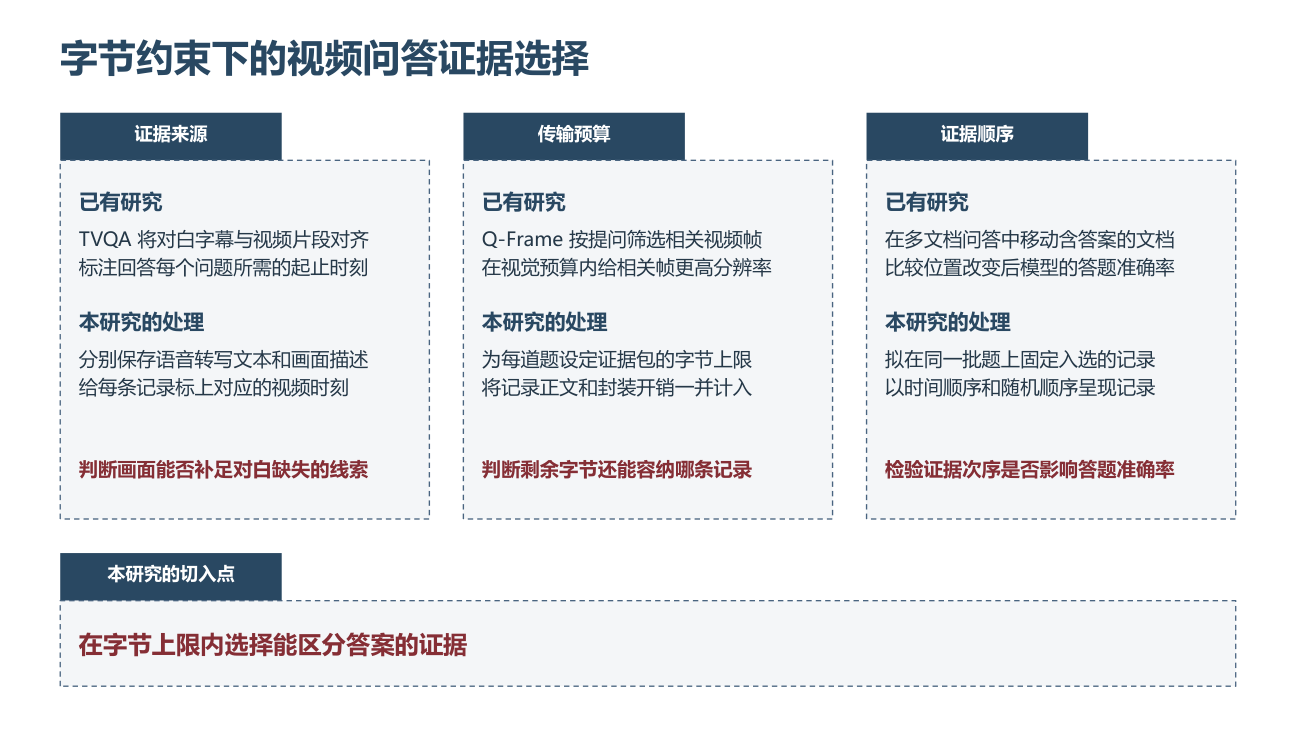
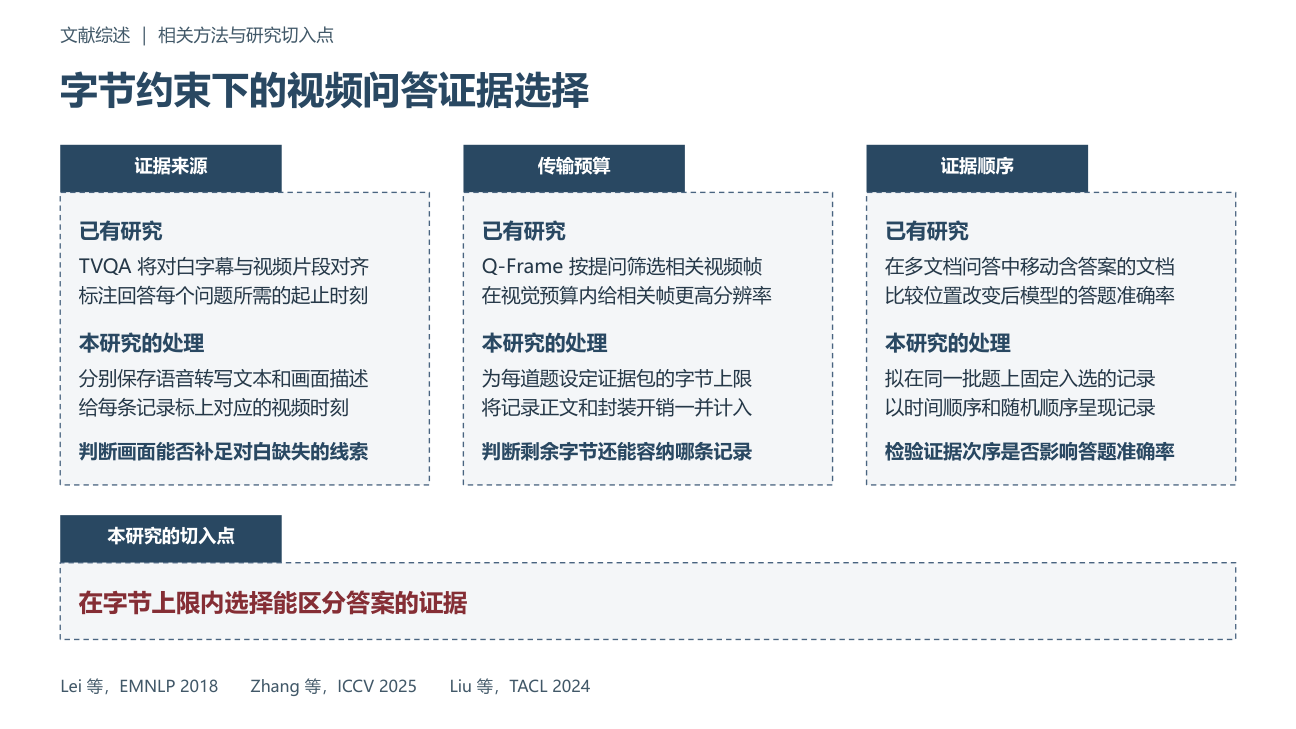
Require six academic slide standards and a page-by-page delivery review

diff --git a/references/工科答辩WPS版式.md b/references/工科答辩WPS版式.md
@@ -1,8 +1,22 @@
-# 国内高校工科答辩 WPS 版式
+# 去 AI 模板感与“真人手搓”工科学术规范（硬性约束）
 
-## 整套答辩
+以下六项是制作和修改学术答辩、组会汇报、项目评审 PPT 的硬性约束，均适用于最终上屏稿。讲稿、备注和原文核查记录可保留精确的原文定位。
 
-编排时按每页要讲的内容选择主体布局。下表也用于交付前的幻灯片浏览视图核对。
+## 1. 章节眉题与页内编号
+
+- 有眉题的页面全篇采用同一体例。默认写成“一级章名 ｜ 本页独立中文主题”，右侧用 6–12 字的完整主题短语，例如“研究内容 ｜ 条件增益的估计方法”。不挂二级及以下阿拉伯数字编号。“文献综述 ｜ 2.1–2.3”不能说明这页讲什么。
+- 确需保留二级编号时，每页至多一个，仍须配完整主题。按全篇页序比较章、节数值，严格递增，不回退、不堆叠。禁止在一行并排多个二级、三级节号、数字区间或括号编号。写全“研究可行性分析”“统计检验”等术语，放不下时重写整条眉题。
+- 正文的并列项用无序号加粗短语，或从 1 开始在本页编号。源文档的“2.7 / 2.8 / 2.9”留在原文映射记录。
+
+## 2. 可见底注与文献引证
+
+- 正片和附录的可见文字均禁用节号符 `§`、自引报告节号、内部文件名及对账签。把“见开题报告 §3.3”或“见补充材料 PDF 第 59 页”的定位移到备注或核查记录。
+- 本页没有对应文献列表时，正文和底注禁用孤立数字引文，如“HERBench [46]”。直接写可识别的作者或数据集，加年份或会议，例如“Liu 等，TACL 2024”。附录参考文献序号写成 `[1]` 至 `[9]`，继续顺排到 `[10]`；范围写作 `[1]–[9]`，不得补零为 `[01]`。
+- 左下角只写有依据的数据集、样本量、统计口径、政策或文献出处。没有补充信息就留空。生成器直接使用本页底注字段，禁止以 `note or default_title` 等逻辑回填报告名称。
+
+## 3. 内容决定版式和容器高度
+
+按下表选择主体布局。每相邻两页核查一次卡片的外框位置，再以连续三页为一组滑动检查。禁止相邻卡片坐标完全相同、仅替换文字，也禁止三页连续使用同一种主体布局，包括连续重复“白底细横线加悬空文字”。换主题色、卡片数量或略微移动外框不能代替换一种合适的表达方式。
 
 | 本页要讲的内容 | 主体布局 |
 | --- | --- |
@@ -12,11 +26,26 @@
 | 受控实验各组相差多少 | 有效应量和区间时用森林图，比较各组数值时可用柱状图，标明单位 |
 | 少量方法、条件或数值需逐行查对 | 三行简洁横线表，列头写清比较口径 |
 
-- **相邻页。** 逐一检查第 1–3、2–4 页等连续三页。任一组三页的主体容器都不能完全相同。换文字、主题色、配图或卡片数量但保留同一种卡片网格，仍算同一布局。根据论证需要调整其中一页。
-- **边框。** 已确定的系统模块、物理协议、原始公报截图用细实线框。方法归类与对比、假设推演、待验证的消融维度、问题切入点用 1 pt 细虚线框配浅底色。采用平涂，禁用浮夸渐变、发光阴影、Emoji 和路演式超大数字卡片。
-- **标题。** 默认用工科学术短语或有证据支持的实证结论。标题出现“？”或“?”的页面合计最多三页，只可用于开篇引题、核心问题、结尾呼应，各最多一页。
-- **文字。** 每行只表达一个动作、条件或观察，沿词组和语义自然断行。去掉排比口号、自造四字词和悬浮长文。计划用“拟比较”“拟测量”等动词，实测结论注明条件。
-- **底注。** 仅保留客观的数据集、样本量、政策或文献出处。正片和底注都不放“此处仅为示意”“具体结构待预实验确定”“机器排队另建台账”等制作说明。影响结论的真实限制写进相应方法或结果句。
+- 核心算法或建模页必须有关键判据公式，或能读出输入、判断和输出的微型数据流图。数据集划分页必须有划分条块或表格，标清划分名称、单位及已知规模。三行纯文字不能充当这两类页的主体。
+- 确定的系统模块、物理协议和原始公文截图用细实线框。方法归类与对比、科学问题、创新点、假设推演、待验证的消融维度与研究切入点，可用左上对齐实心压顶标签、浅灰底和 1 pt 的 DASH 细虚线框。禁用浮夸渐变、发光阴影、Emoji 和路演式超大数字卡片。
+- 先定实际文案、换行和段距，再按排出的行高加上下内距设框高。并列卡片需要等高时，取满足最长一列的最小共同高度。问题句紧跟前段，列间可对齐基线，禁止用高框和固定底部锚点拉出中间空层。所有框体、标签与文字保留原生可编辑 Shape/TextFrame，禁止将整块文字贴成图片。
+
+## 4. 按语义使用强调色
+
+并列介绍前人工作时，三个维度、各列的问题句均用中性深蓝灰，仅底部“本课题切入点”用暗红。评价体系或个人成果页只强调确有依据的首要指标或最重要成果，例如第一作者已发表论文。也可让并列项同色，将强调留给收口结论。禁止按位置或索引把第三项、末项机械设为红字或粉底，包括 `if idx == last` 一类写法。
+
+## 5. 图表、案例与个人成果
+
+- 外部论文原图与官方公报截图逐一放大检查四角。校徽、页眉底纹和模板水印均须避开原图、图例、抬头及署名。自绘图已直接标值且省略轴线时，清除悬空的原点字符，如孤立的“0”。有实际数据含义的零值应保留。
+- 视频帧与实验样本的图注要说明该处提供的语义线索。例如核对过旁白后可写“43.25 s 旁白点出目标国家”。“14.56 s 语音段中点”只有定位信息。对听不清、看不明的样本，应核对转写或更换例子。
+- 个人成果页分清“已发表／已录用成果”和“在审方法储备”。双盲在审稿件只写可公开的方法方向，不透露原题、稿号，也不展示投稿系统后台截图。竞赛奖项按证书字面列出奖项和等级，不贴红章金边奖状扫描件。需要配图时，右侧仅配 1–2 张相关会议口头汇报现场照，图片区的上、下缘分别与左栏对齐。
+- 标题默认使用平实的工科学术短语或有依据的实证结论。计入中、英文问号的设问标题全篇最多三页，只用于开场引题、核心问题和结尾呼应，各最多一页。使用“字节构成分析”等可直读的术语，避免“载荷审计”之类生硬直译、四字造词、排比口号和低幼口水标题。计划用“拟比较”“拟测量”等准确动词。正片和底注不印“此处仅为示意”“待预实验确定”“机器排队另建台账”等免责补丁；必要的实验条件写入方法或结果句。
+
+## 6. 交付前强制自检
+
+1. **核对全局大纲。** 从最终 PPTX 的实际放映页序导出文本清单，每页一行，列为“页码、眉题、主标题、底注”。包含封面、过渡页和备查页。读取本页实际显示的文字，包括继承自版式或母版的内容；空字段留空。逐行核对眉题语义与体例、章节编号顺序、标题问号数量和底注。另对全页可见正文、图注和表格检索 `§`、数字引文、补零序号与内部文件名；用本页文献表判断数字引文是否孤立，避免误判备查页。
+2. **核对页序依赖。** 增删或调换页面后，复核目录起止页、正片页脚的 `xx / N` 分子与分母，以及逐页讲稿、问答手册中的跳页索引。按实际正片与备查页分界计算 N。
+3. **逐页看最终渲染。** 将最终 PPTX 导出为 PDF，再将 PDF 的每一页渲染成独立 PNG。已有输出目录时可用 `pdftoppm -r 144 -png "最终稿.pdf" "核查/页"`。核对 PPTX、PDF、PNG 页数和顺序一致，在可读尺寸逐张审视，并排比较相邻页。检查文本溢出或压线、卡片中部空层、照片擦碰母版底纹、外部图四角、轴线残件和相邻页框体重合。发现问题须回改 PPTX、重新导出并复核受影响页及相邻页。文本清单与逐页目视两项均通过后方可交付。
 
 ## 三列研究对照与切入点
 
@@ -27,7 +56,7 @@
 | 上部三列 | 三张等宽等高卡片，上下对齐。设正文区总宽为 W，列距 g 约 0.35 in，每列宽为 (W − 2g) / 3。 |
 | 压顶标签 | 深色实心直角矩形，贴住内容框上沿，左边对齐。宽为列宽的 55%–65%，高约 0.42 in，白字加粗、水平垂直居中。为保留四边至少 0.15 in 内距，可按字高适当增高。 |
 | 卡片内容框 | 直角矩形，填充浅灰蓝 `#F4F6F9`，边框深灰蓝 `#4A6580`、1 pt、标准短划虚线（WPS 的 DASH，对应 DrawingML 的 `dash`）。 |
-| 卡片文字 | 从上至下为加粗小标题“已有研究”及两行代表性做法，加粗小标题“本研究的处理”及两行对应做法或约束，最后为一行暗红色加粗的具体问题。三列按相同段距排版，最后一行靠卡片底部并共用基线。正文行按 14–18 个汉字编排，每行最多 18 字。短标签无需补字。遇到长句先改写，再按语义断行。 |
+| 卡片文字 | 加粗小标题“已有研究”下列两行代表性做法，“本研究的处理”下列两行对应做法或约束，再用一行深蓝灰粗体点明具体问题。三列共享紧凑段距和问题句基线，随内容收紧框高。正文行按 14–18 个汉字编排，每行最多 18 字。短标签无需补字。遇到长句先改写，再按语义断行。 |
 | 底部通栏 | 左侧实心标签写“本研究的切入点”或“核心结论”，其下紧接同色浅底、同款细虚线框。通栏左边与第一列左边重合，右边与第三列右边重合。框内一行暗红色加粗文字，16–18 pt，直接说清本页的研究切入点或结论。 |
 
 标题、标签、卡片、底栏均使用 WPS 原生可编辑矩形或文本框，带字对象四边各留至少 0.15 in。导出后检查所有正文均为两行、两组之间有明显段距、末行同高、底栏单行。回到选择窗格，确认可以直接改写文字，并单独调整矩形的填充和虚线。

diff --git a/README.md b/README.md
@@ -6,22 +6,30 @@
 
 [![四款模板的实际封面，从左到右、从上到下为飞行弧线红、云纹深蓝、银杏秋金和校园全景双语](docs/theme-preview.jpg)](assets/答辩主题选款.pdf)
 
-## v1.1.0 工科答辩 WPS 版式更新
+## v1.2.0 学术汇报排版与交付核查
+
+学术答辩、组会汇报和项目评审在新建与改稿时均使用六项硬性规范。
+
+| 核查项 | 成稿要求 |
+| --- | --- |
+| 眉题与编号 | 统一使用“一级章名 ｜ 6–12 字完整主题”。有必要时每页最多一个二级编号，页序严格递增。正文并列项在页内独立编号。 |
+| 底注与引文 | 画面只留可读的公开出处和客观数据口径。无底注就留空。原文定位留在核查记录，备查页文献序号从 [1] 起且不补零。 |
+| 版式与原生对象 | 按内容切换卡片、流程图、实证图、图文对照和三线表。核心建模用公式或数据流，数据划分用条块或表格。卡片随行数收紧。 |
+| 配色 | 并列比较使用同一中性色，仅对真正的指标、成果或收口结论使用强调色。三列综述单页只在底栏标红。 |
+| 图表、案例与成果 | 检查外部图四角、坐标轴残件和案例图注中的具体线索。区分已发表、已录用和在审工作，按证书原文列奖项，保护双盲稿件信息。 |
+| 交付前逐页核查 | 从成稿导出“页码、眉题、主标题、底注”四列清单。调页后同步目录、页脚分母、讲稿与问答跳页索引。PPTX 导出 PDF 后逐页转 PNG，逐张目视复核。 |
+
+各项的正反例、专用单页尺寸和验收步骤见[工科学术汇报六项硬性规范](references/工科答辩WPS版式.md)。
+
+## 校园全景校标与三列研究对照单页
 
 **校园全景校标已改为透明矢量。** 第 13、14 款主题的封面和致谢页已去掉白色衬底，圆徽、红色标志及中英文校名可直接叠在校园照片上。已有演示稿可在 WPS 的“视图 → 幻灯片母版”中打开对应版式，删除“底版·校标衬底”，再替换旧校标。两个版式都要检查。 [查看 WPS 实际封面局部](docs/panorama-logo.png) · [透明 SVG](assets/主题标识/标准彩色.svg) · [透明 PNG](assets/主题标识/标准彩色.png)
 
-新增一张 16∶9「三列研究对照与切入点」单页，适合在文献综述末尾说明课题从哪里着手。三列各写两行已有方法、两行本研究的处理，再用一句话点明要解决的问题。底部通栏用一行 16–18 pt 暗红色粗体收束全页。标题、标签、卡片和底栏共 9 个原生对象，均可在 WPS 中直接编辑。 [打开可编辑 PPTX](assets/三列研究对照与切入点.pptx)
+16∶9「三列研究对照与切入点」适合在文献综述末尾说明课题从哪里着手。三列各写两行已有方法、两行本研究的处理，再用一句话点明要解决的问题。卡片按内容收紧，底部通栏用一行 16–18 pt 暗红色粗体收束全页。眉题、标题、标签、卡片、底栏和文献出处均可在 WPS 中直接编辑。 [打开可编辑 PPTX](assets/三列研究对照与切入点.pptx)
 
 [![WPS 实际导出的研究对照页，按证据来源、传输预算和证据顺序分三列，底部汇总研究切入点](docs/research-comparison.png)](assets/三列研究对照与切入点.pptx)
 
-整套答辩增加四项验收要求。
-
-- **布局随内容切换。** 方法归类用卡片，原始证据用左文右图，技术路线用横向流程，实验差异用森林图或柱状图，逐项核对用三行横线表。连续三页不得使用完全相同的主体布局。
-- **边框表达含义。** 确定的模块、物理协议和公报截图用细实线。方法对比、假设、待验证的消融维度和研究切入点用 1 pt 细虚线配浅底色。
-- **设问标题最多三页。** 仅用于开篇引题、核心问题和结尾呼应。其余页用学术短语或有依据的实证结论作标题。
-- **底注只放客观信息。** 保留数据集、样本量、政策或文献出处。正片和底注均删去制作说明及免责措辞。
-
-完整包和 14 个单主题包均附单页与规范。列距、内边距、虚线色值和 WPS 检查方法见[工科答辩 WPS 版式规范](references/工科答辩WPS版式.md)。
+完整包和 14 个单主题包均附可编辑单页与规范。
 
 ## 选一款模板
 
@@ -62,7 +70,7 @@ git clone https://github.com/fenggezhang-pixel/cafuc-thesis-defense.git "$env:US
 
 > 用 $cafuc-thesis-defense 把我的开题报告做成 12 分钟的答辩 PPT。选 07 云纹深蓝，按报告原表保留实验数值。每页配一份专家讲稿和一份口语讲稿。
 
-如果同时使用 `academic-ppt-master` 或 `ppt-master`，可让它们在国内高校工科答辩任务中直接引用本仓库的 `references/工科答辩WPS版式.md`。三种入口可共用同一份规范。
+如果同时使用 `academic-ppt-master` 或 `ppt-master`，可让它们在学术答辩、组会汇报和项目评审任务中直接引用本仓库的 `references/工科答辩WPS版式.md`。三种入口可共用同一份规范。
 
 ## 检查成稿
 

diff --git a/SKILL.md b/SKILL.md
@@ -1,6 +1,6 @@
 ---
 name: cafuc-thesis-defense
-description: 用中国民用航空飞行学院参考模板制作开题、阶段汇报和毕业答辩 PPT。支持 14 款主题、WPS 原生可编辑的工科答辩版式、双版讲稿与原文核查。
+description: 用中飞院 14 款参考主题制作或修改学术答辩、组会汇报、项目评审 PPT。提供 WPS 可编辑版式、双版讲稿、原文核查及逐页交付审查。
 ---
 
 # 中飞院硕士论文答辩
@@ -60,9 +60,9 @@ python scripts/add_library_watermark.py "答辩.pptx" "答辩_图书馆底图.pp
 
 ## 工科答辩正文排版
 
-编排大纲和定稿验收时都按[国内高校工科答辩 WPS 版式规范](references/工科答辩WPS版式.md)检查整套页面。先为每页选能表达内容的布局，再按实际页序检查连续三页的容器、设问标题的数量与位置、边框含义及底注。
+制作或修改学术答辩、组会汇报、项目评审 PPT 时，必须执行[工科学术汇报六项硬性规范](references/工科答辩WPS版式.md)。从大纲阶段确定眉题、页内编号和公开出处，按每页的内容选择结构、框高和强调色。精确的原文节号、内部文件名及核查细节保存在备注或项目记录。排查模板默认页脚、图像水印及成果展示方式。
 
-需要并列讲清三个研究维度并收束到一个切入点时，复制[三列研究对照与切入点单页](assets/三列研究对照与切入点.pptx)中的原生对象。把示例替换为当次课题已核实的内容，保留两组各两行的正文和三列问题句的共同基线。
+需要并列讲清三个研究维度并收束到一个切入点时，复制[三列研究对照与切入点单页](assets/三列研究对照与切入点.pptx)中的原生对象。替换为当次课题已核实的内容，两组正文各两行，列内深蓝灰，底部总切入点标红。按实际行数收紧框高。
 
 ## 方法图与讲稿
 
@@ -84,9 +84,11 @@ python scripts/add_library_watermark.py "答辩.pptx" "答辩_图书馆底图.pp
 
 **示例提示词**　“第〔页码〕页的‘〔论点〕’适合配一张原文。请打开〔来源链接〕，在〔PDF 第几页／小节／图表〕找到〔关键词〕，截取〔具体范围〕，保留〔单位、图号、图例或发布日期〕。可回传图片，或存到〔项目截图文件夹〕，建议文件名为〔P页码_来源_图号.png〕。收到后我会把图放到〔正文或备查页的位置〕，并补上出处。”
 
-用户自己操作网页时，交付可点击入口和截图清单；收到截图后，匹配原文、裁去浏览器外框与多余空白，保留决定原意的上下文，用 WPS 原生图形排版。按项目要求可加细红边，在图片右下另留白放学校校徽和中英文校名，让原发布机构的抬头、署名及正文保持清晰。若用户插入了新页，重新核对目录、页脚、两套讲稿和实验材料页码。
+用户自己操作网页时，交付可点击入口和截图清单。收到截图后核对原文，裁去浏览器外框与多余空白，保留决定原意的上下文。用 WPS 原生图形排版，按项目要求可加细实线边框。校徽及中英文校名放在截图边界以外，放大四角检查原发布机构的抬头、署名、图例和正文。插入新页后按下节核对所有页码与讲稿。
 
 ## 验收
+
+交付前执行[规范第 6 项](references/工科答辩WPS版式.md#6-交付前强制自检)。从成稿导出“页码、眉题、主标题、底注”清单，逐行核查。PPTX 导出 PDF 后，将每页渲染为 PNG 并逐张目视检查。页序变更时同步目录、正片页码分母、逐页讲稿和问答手册跳页索引。校标脚本仅检查标识和所选备注标记。
 
 新版主题可按编号核对整套校标，例如 `python scripts/check_deck.py "答辩.pptx" --theme 06`。脚本沿页面、版式与母版比对图片指纹；放映时另查校标的可见性、位置和背景对比度。
 
